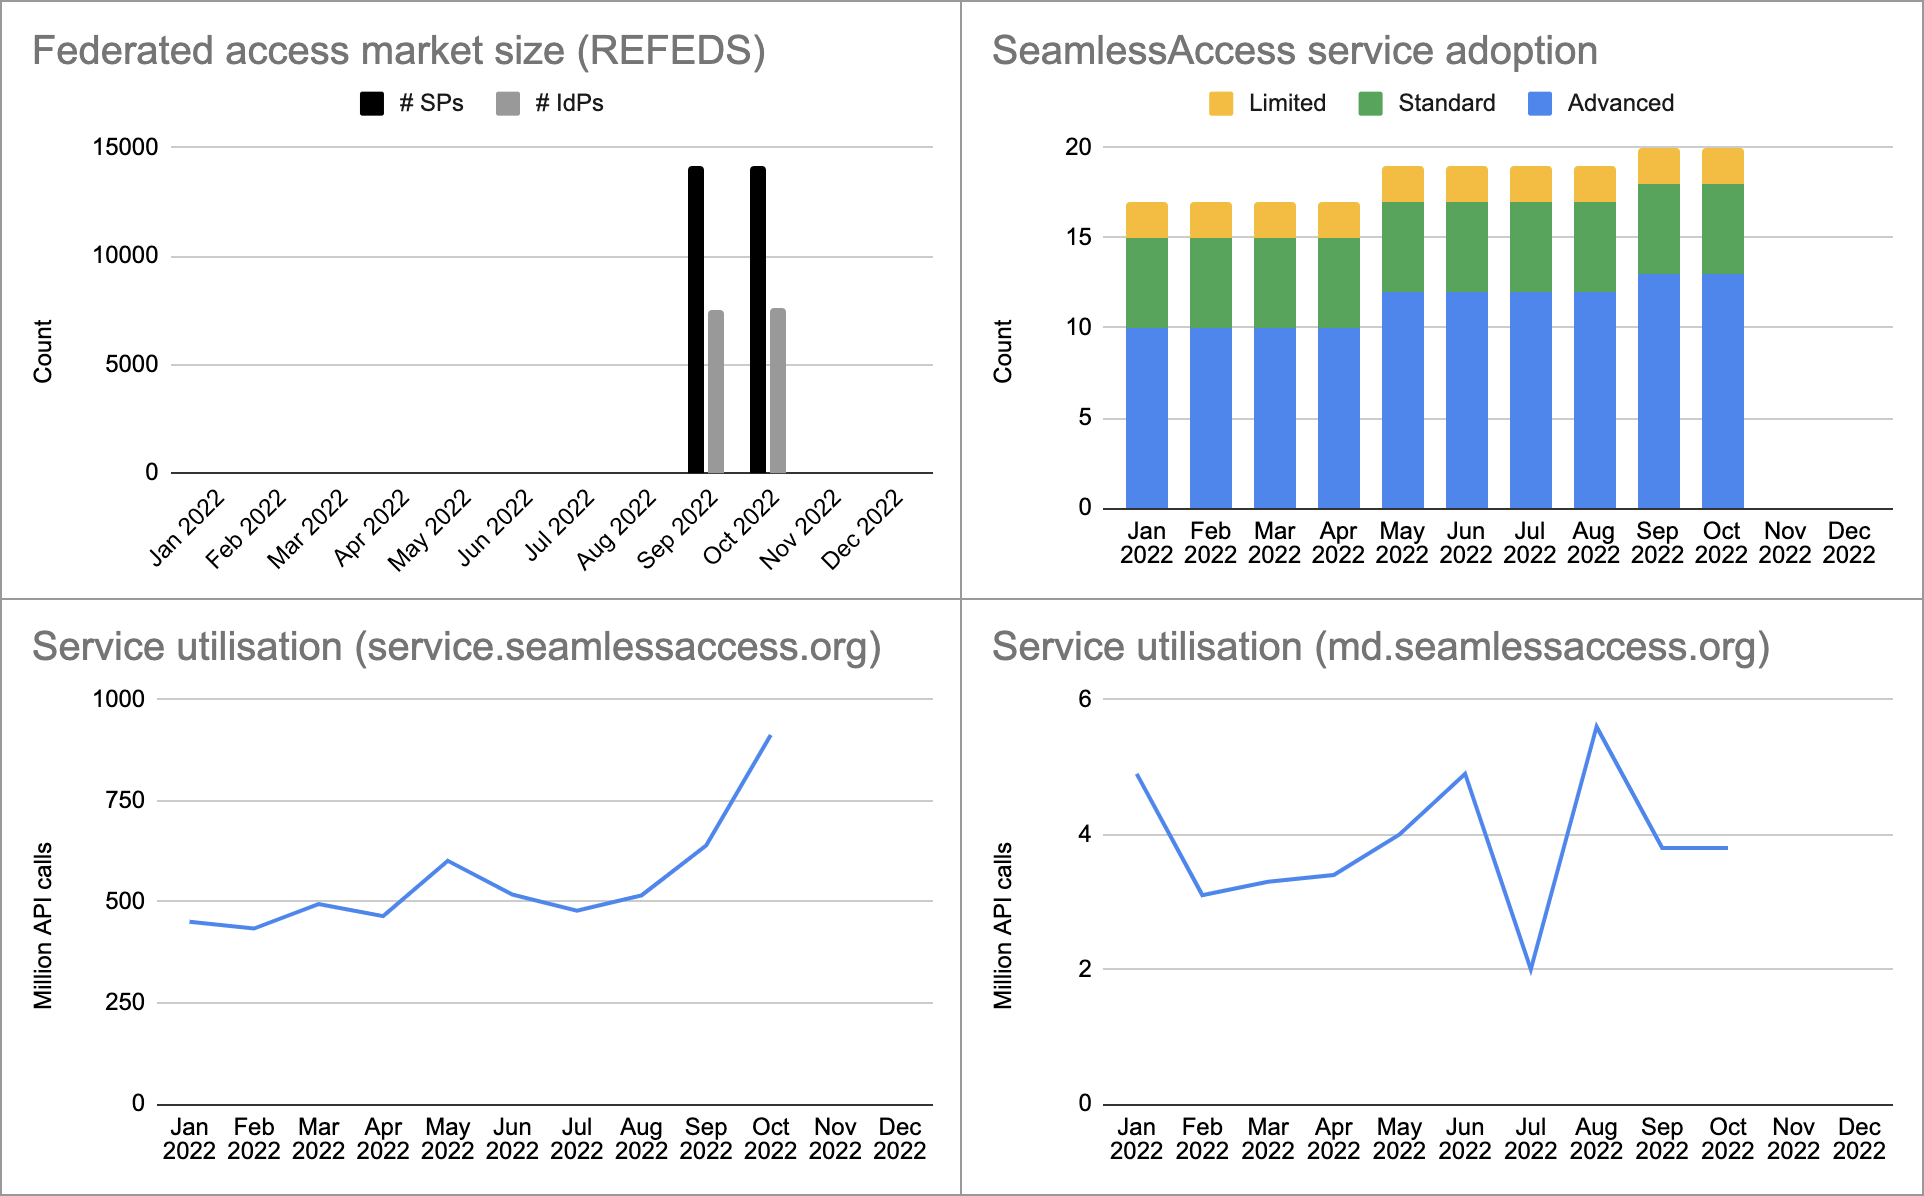
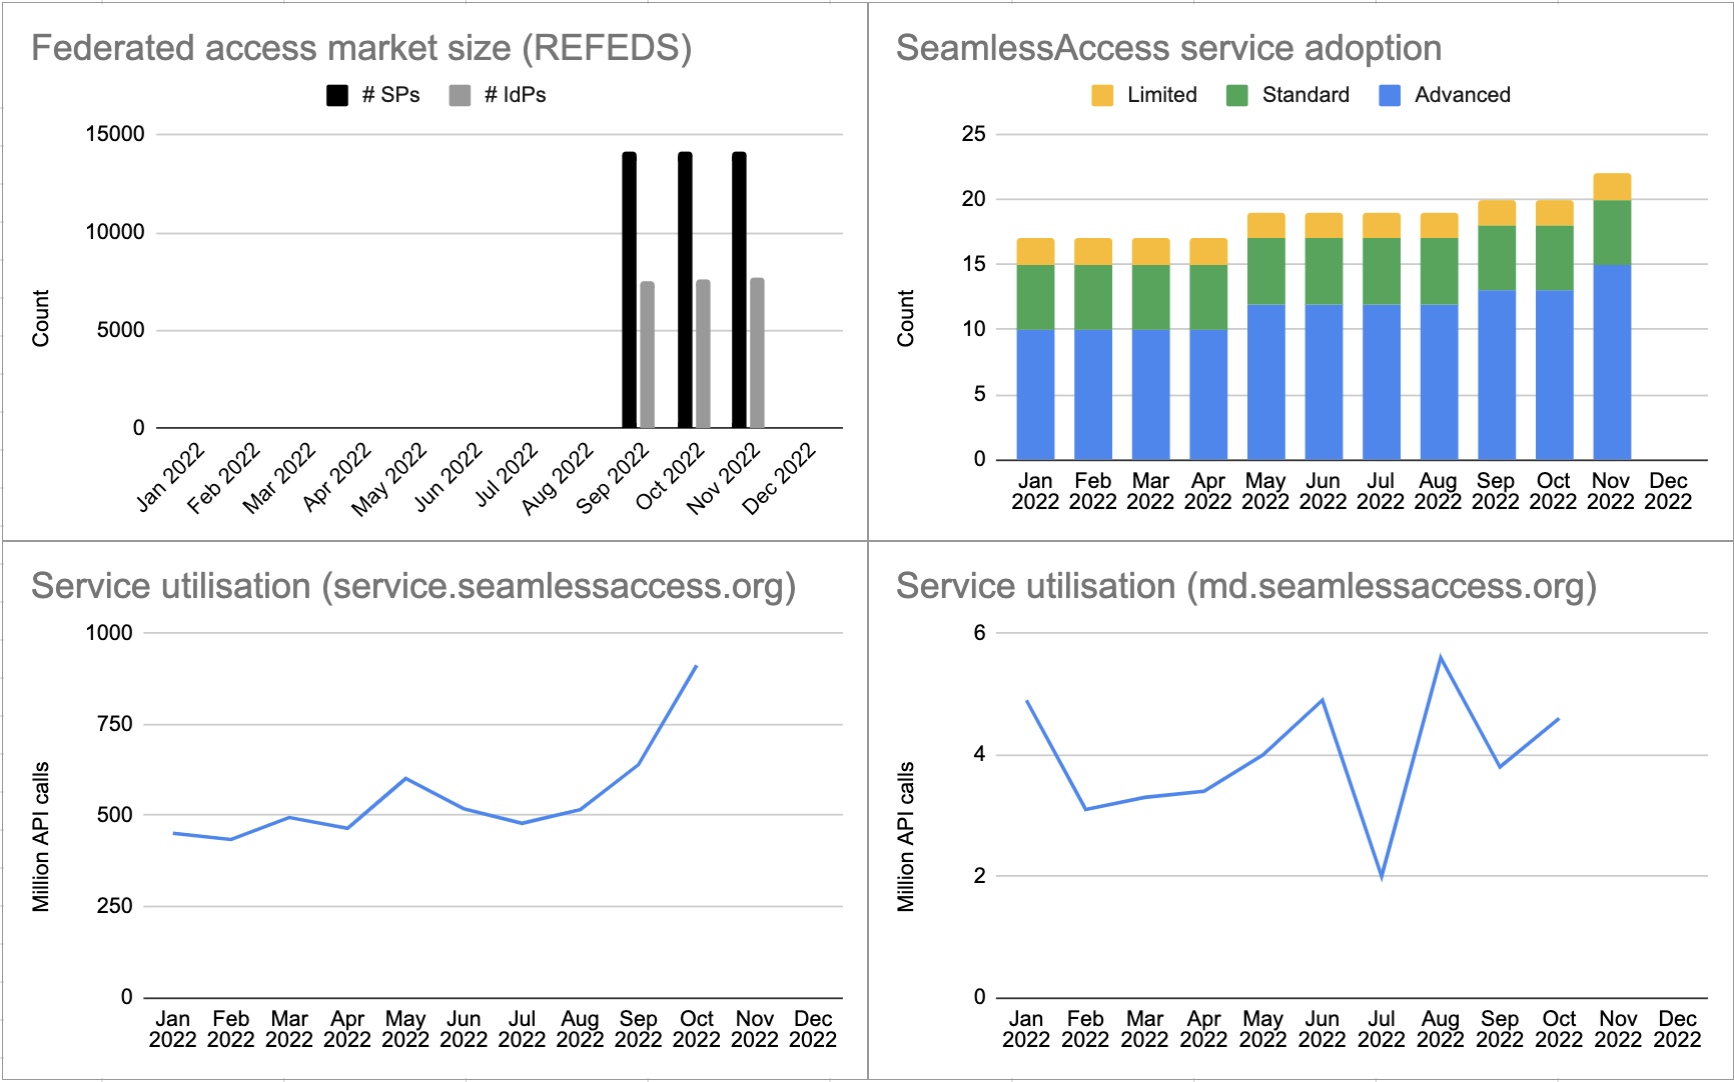
Added KweliTV and British Online Archives to live SP list

diff --git a/content/stakeholders/for-service-providers.md b/content/stakeholders/for-service-providers.md
@@ -43,6 +43,11 @@ More information on how to integrate with SeamlessAccess, as well as our source 
     <td>Advanced</td>
     <td><a href="https://pubs.acs.org/action/ssostart?redirectUri=/page/remoteaccess/confirm">pubs.acs.org</a> </td>
   </tr>
+  <tr>
+    <td>British Online Archives</td>
+    <td>Advanced</td>
+    <td><a href="http://www.britishonlinearchives.digital."> britishonlinearchives.digital</a> </td>
+  </tr>
       <tr>
     <td>Cambridge University Press (Core and Higher Education)</td>
     <td>Advanced</td>
@@ -79,6 +84,11 @@ More information on how to integrate with SeamlessAccess, as well as our source 
     <td>IOP Publishing</td>
     <td>Standard</td>
     <td><a href="https://iopscience.iop.org/article/10.35848/1882-0786/abdcd7">iopscience.iop.org</a></td>
+  </tr>
+  <tr>
+    <td>KweliTV</td>
+    <td>Advanced</td>
+    <td><a href="https://www.kweli.tv/start">kweli.tv</a></td>
   </tr>
   <tr>
     <td>Mark Allen Group</td>
